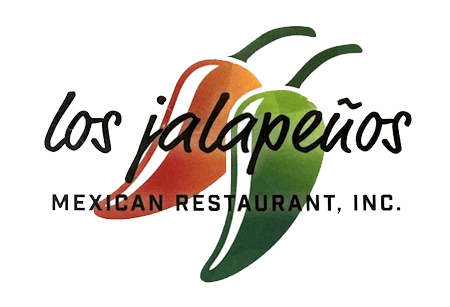
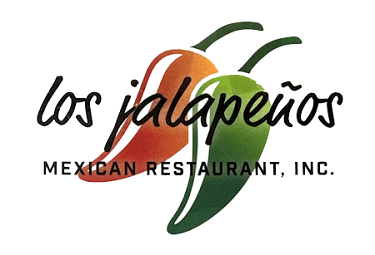
fully responsive site

diff --git a/src/pages/Home/Hero.tsx b/src/pages/Home/Hero.tsx
@@ -8,7 +8,7 @@ export const Hero: React.FC = () => {
             <div className='hero-container'>
                 
                 <div className='h-logo' style={{textAlign: 'center'}}>
-                    <img className="logo" src="https://menufyproduction.imgix.net/637371690858159795+284634.png?auto=compress,format&h=1080&w=1920&fit=max" alt="logo" />
+                    <img className="logo" src="losjal.png" alt="logo" width="375" />
                 </div>
                 <div className='hero-content'>                    
                         <div className='h-tag'>

diff --git a/scss/components/_Navbar.scss b/scss/components/_Navbar.scss
@@ -88,7 +88,7 @@
             margin-top: 2%;
             margin-left: 0;
             .number{
-                font-size: 35px;
+                font-size: 30px;
             }
         }
         .nav-right{
@@ -101,6 +101,7 @@
         }
     }
 }
+
 
 .nav-container.active{
     background-color: black;

diff --git a/scss/pages/home/_Hero.scss b/scss/pages/home/_Hero.scss
@@ -92,6 +92,7 @@
             height: auto;
 
             filter: drop-shadow(3px 3px 5px rgba($color-off-light, 20%));
+
         }
         .h-tag {
             font-size: 0.9em;
